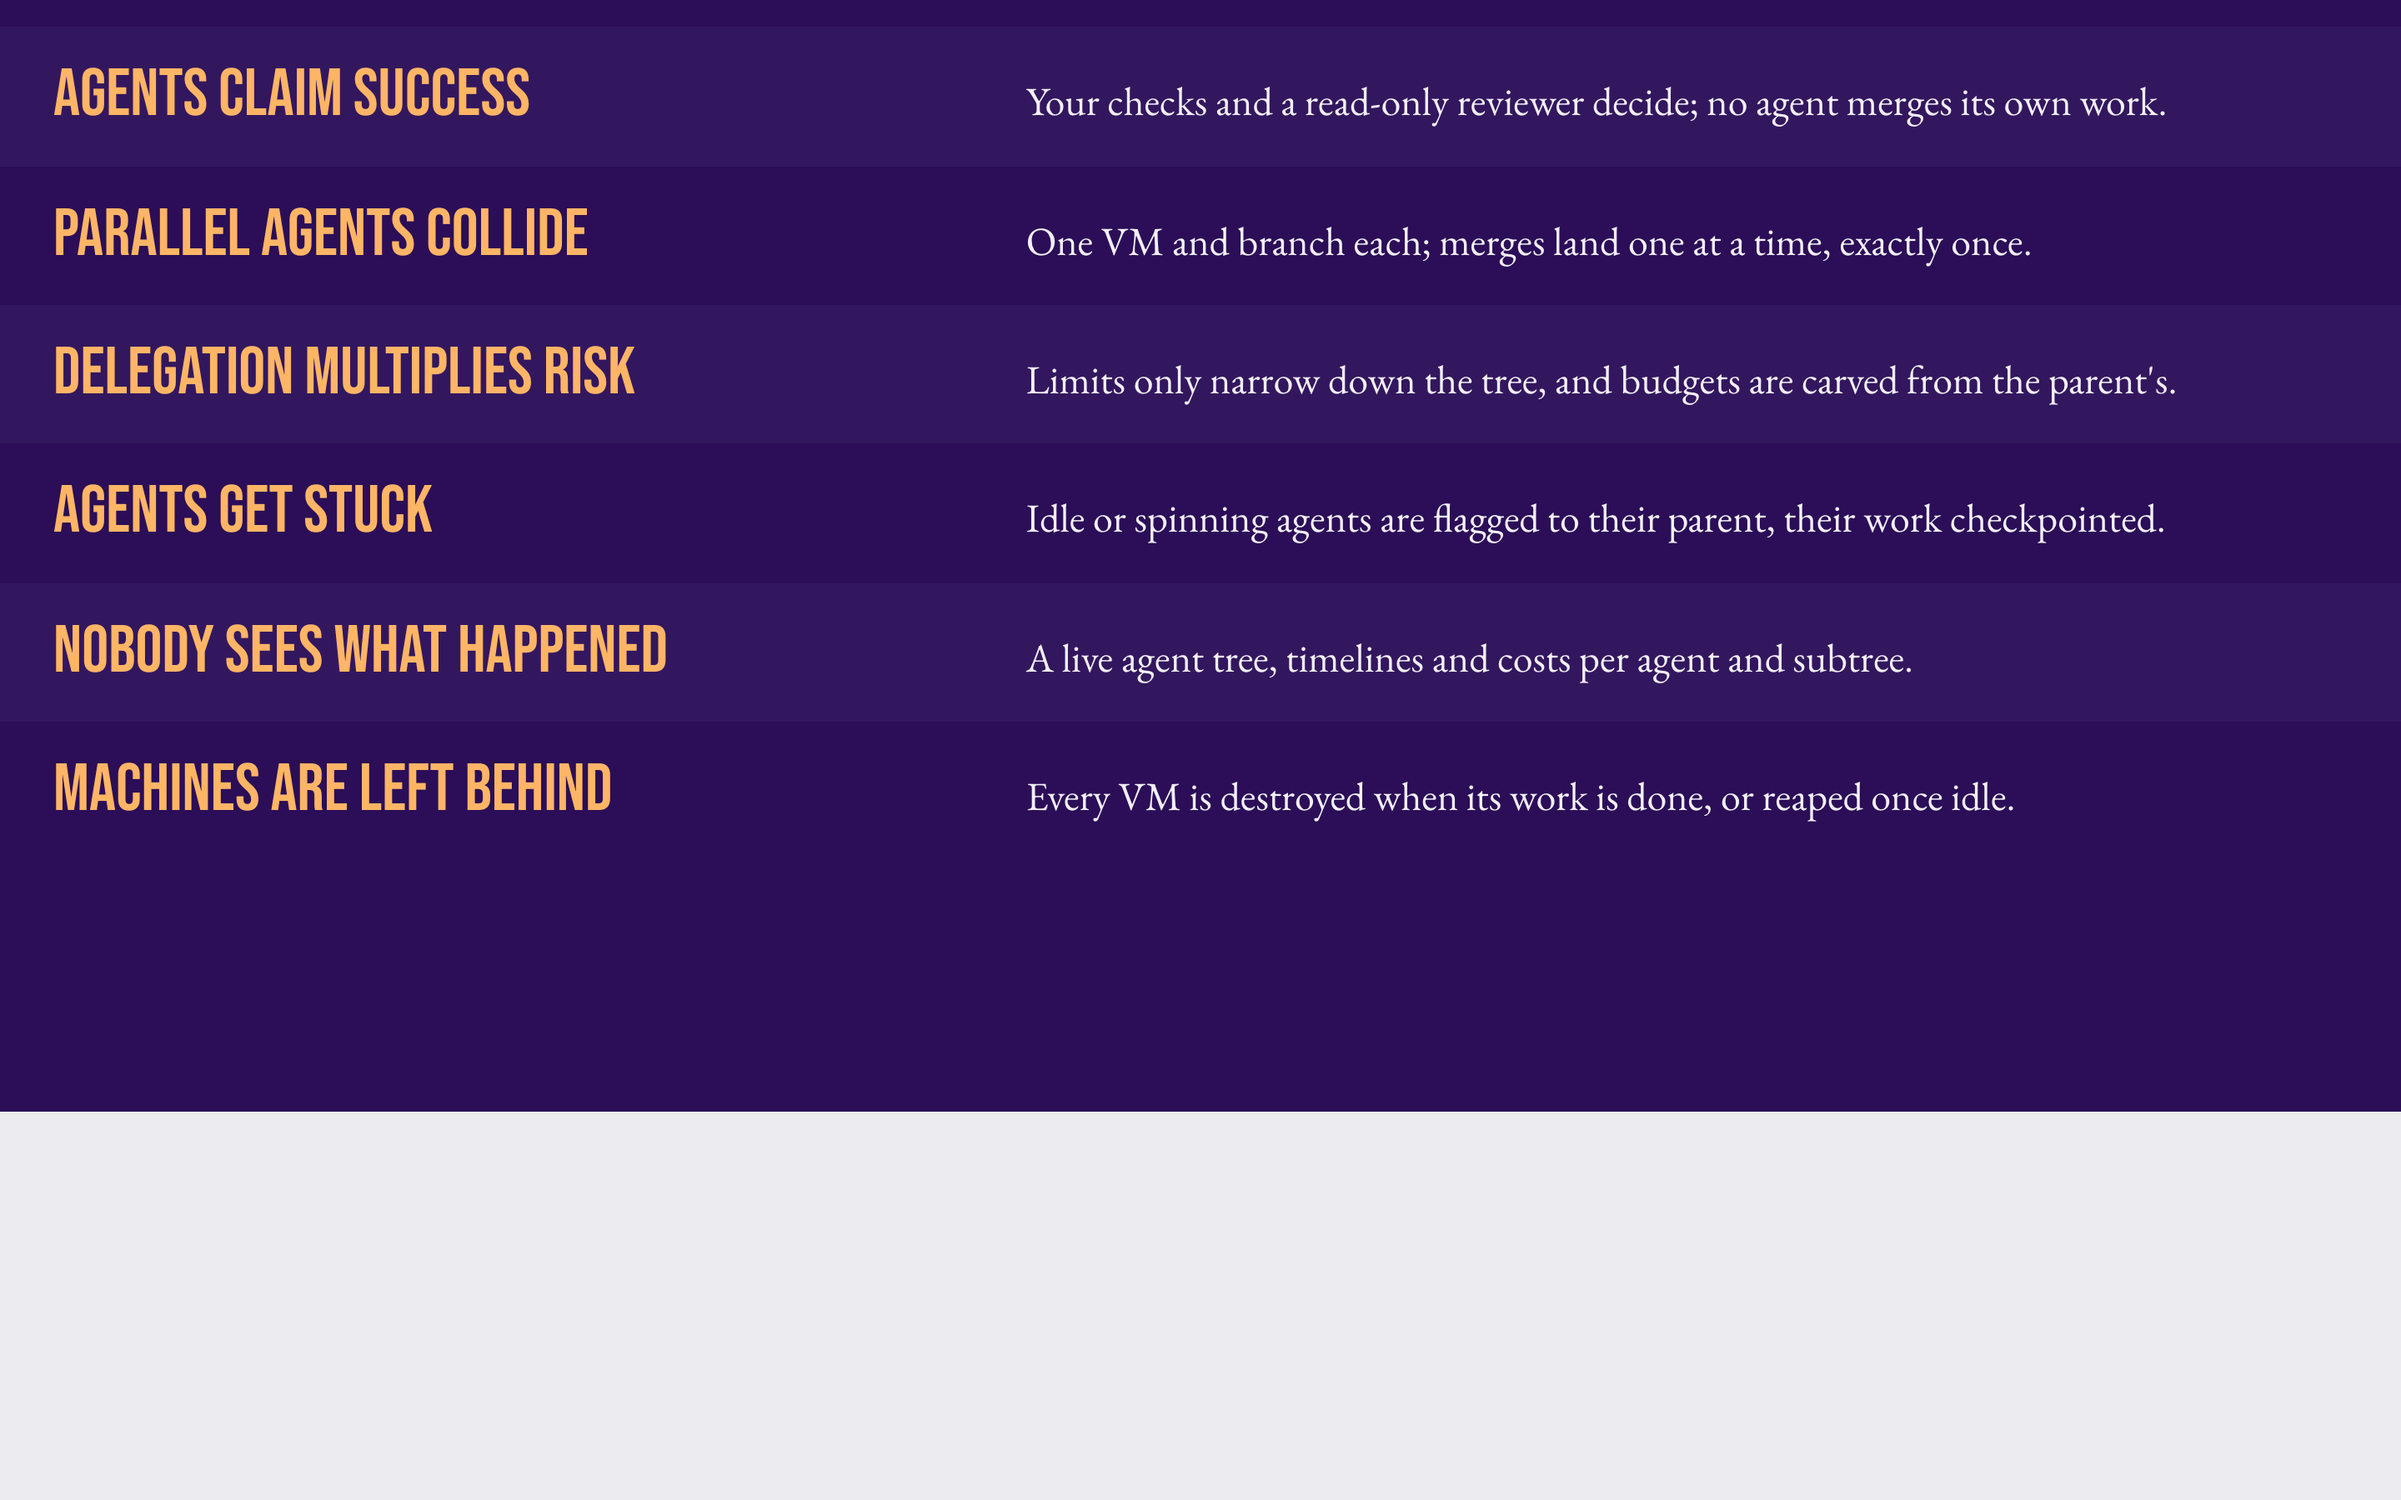
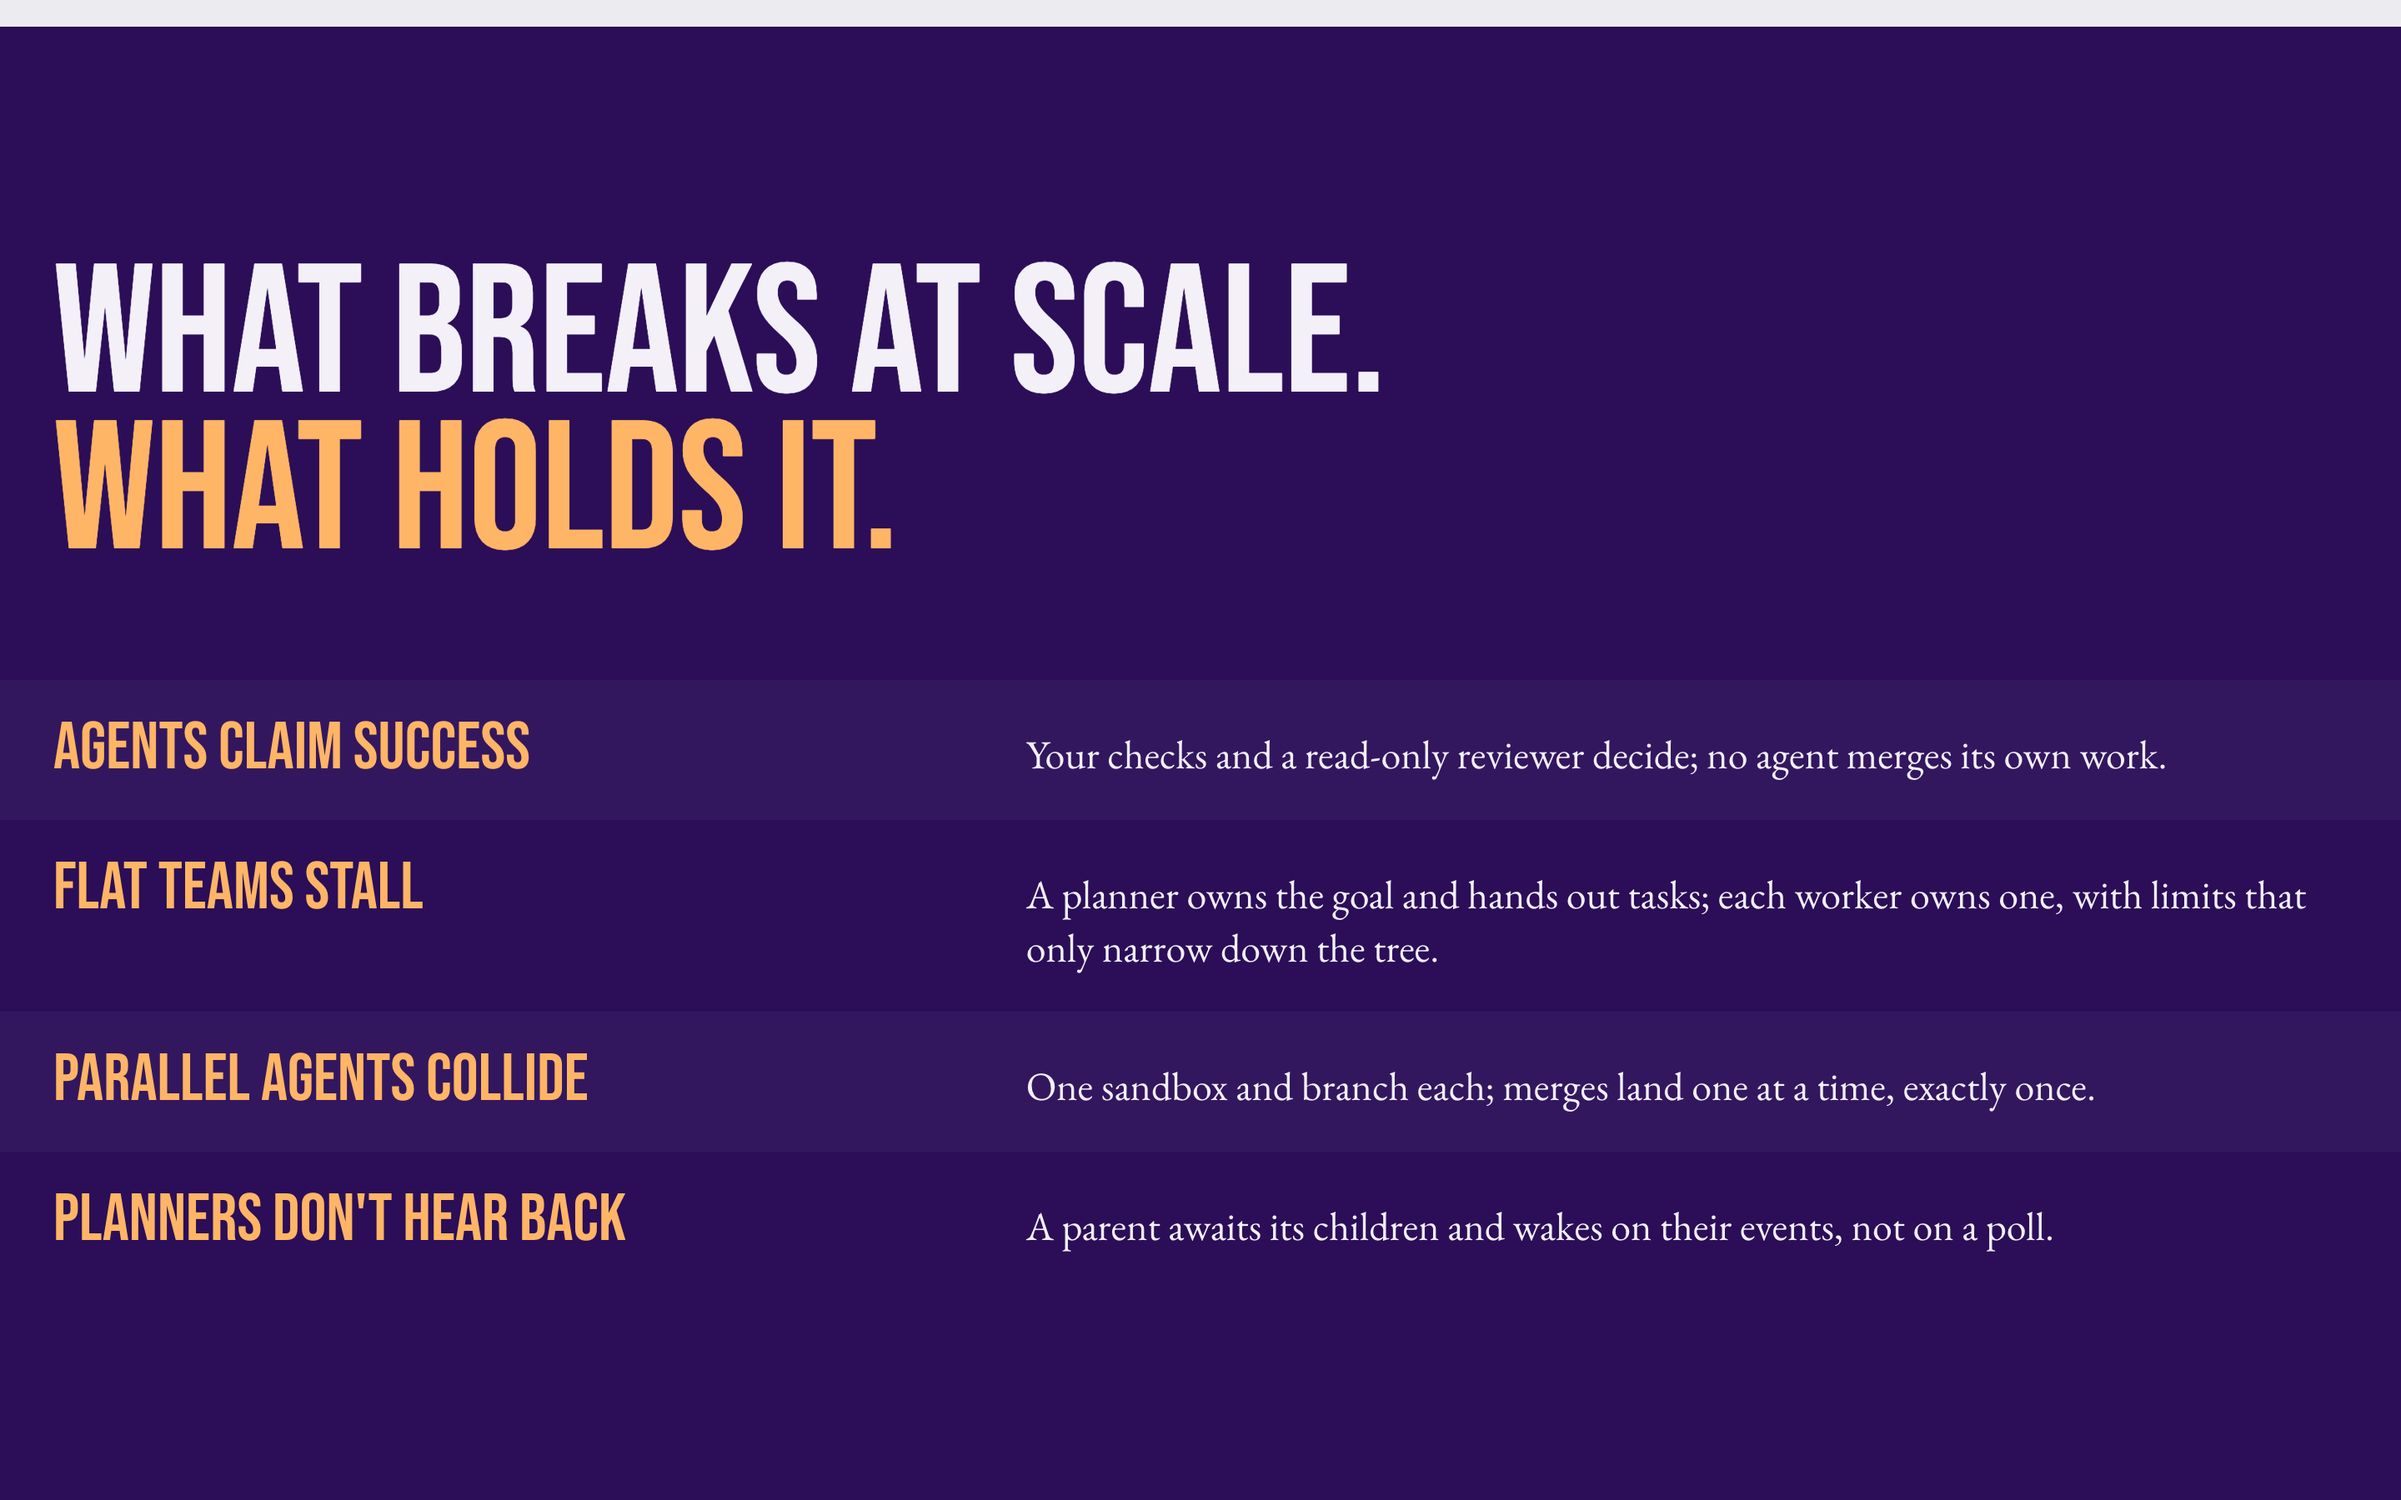
site: "What breaks at scale" as the owner's nine rows
The rows, in order: agents claim success, flat teams stall, parallel agents
collide, planners don't hear back, agents run too long, crashes end long runs,
half-built environments, nobody sees what happened, machines are left behind.
Same heading and layout.

diff --git a/site/components/AtScale.tsx b/site/components/AtScale.tsx
@@ -1,13 +1,16 @@
 import type { ReactNode } from "react";
 
-// Each problem from README "Why", answered in one line. Durability has its own block ("Built on Rivet") above.
+// The problems that break agent swarms at scale, each answered in one line (owner-approved copy, 2026-10-29).
 const PAIRS: Array<[string, ReactNode]> = [
   ["Agents claim success", <>Your checks and a read-only reviewer decide; no agent merges its own work.</>],
-  ["Parallel agents collide", <>One VM and branch each; merges land one at a time, exactly once.</>],
-  ["Delegation multiplies risk", <>Limits only narrow down the tree, and budgets are carved from the parent&apos;s.</>],
-  ["Agents get stuck", <>Idle agents are flagged to their parent, their work checkpointed.</>],
+  ["Flat teams stall", <>A planner owns the goal and hands out tasks; each worker owns one, with limits that only narrow down the tree.</>],
+  ["Parallel agents collide", <>One sandbox and branch each; merges land one at a time, exactly once.</>],
+  ["Planners don't hear back", <>A parent awaits its children and wakes on their events, not on a poll.</>],
+  ["Agents run too long", <>Budgets in dollars, turns and time, carved from the parent&apos;s; idle agents are flagged, their work checkpointed.</>],
+  ["Crashes end long runs", <>Every agent is a durable workflow in the engine; the run picks up after a crash.</>],
+  ["Half-built environments", <>Each agent starts from a snapshot with the agent CLIs and your repo&apos;s dependencies baked in.</>],
   ["Nobody sees what happened", <>A live agent tree, timelines and costs per agent and subtree.</>],
-  ["Machines are left behind", <>Every VM is destroyed when its work is done, or reaped once idle.</>],
+  ["Machines are left behind", <>Every sandbox is destroyed when its work is done, or reaped once idle.</>],
 ];
 
 export function AtScale() {
